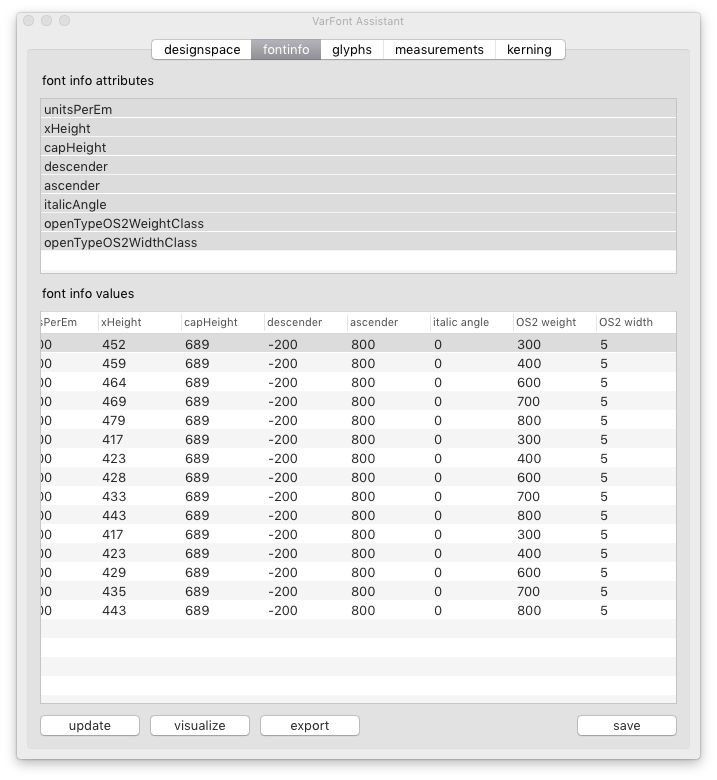
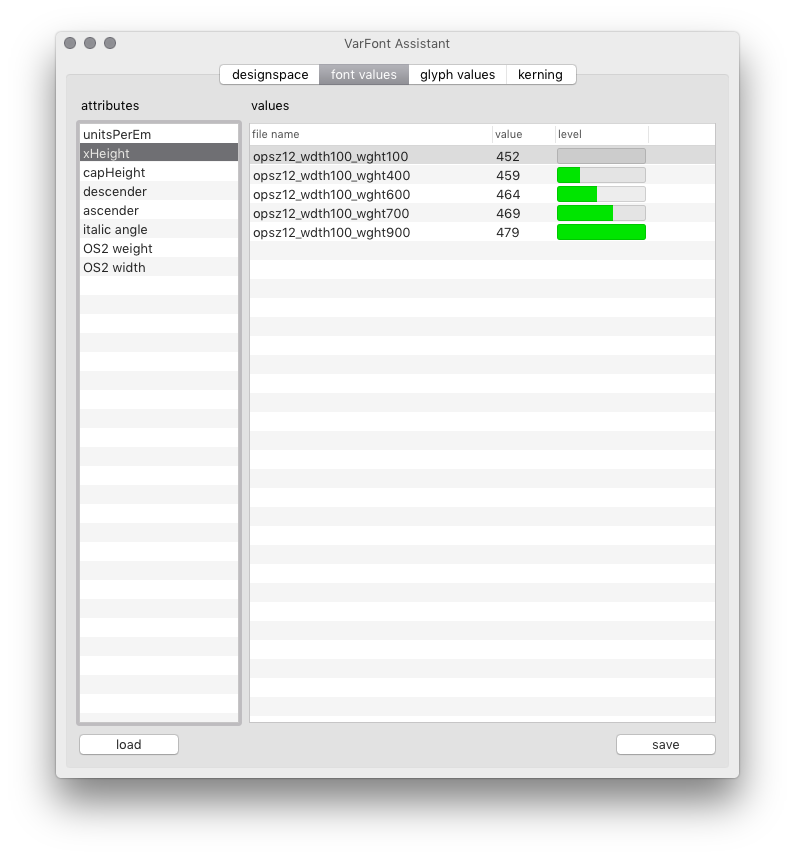
updating docs

diff --git a/docs/_layouts/default.html b/docs/_layouts/default.html
@@ -5,7 +5,7 @@
   <meta charset="utf-8">
   <meta name="viewport" content="width=device-width, initial-scale=1">
   <title>{{ page.title }}</title>
-  <link rel="icon" href="{{ site.url }}/favicon.ico"/>
+  {% comment %}<link rel="icon" href="{{ site.url }}/favicon.ico"/>{% endcomment %}
   {% include bootstrap.html %}
   <link rel="stylesheet" href="{{ site.url }}/css/style.css" type="text/css" />
   <script src="https://code.jquery.com/jquery-3.6.0.slim.min.js" integrity="sha256-u7e5khyithlIdTpu22PHhENmPcRdFiHRjhAuHcs05RI=" crossorigin="anonymous"></script>

diff --git a/source/VarFontAssistant.py b/source/VarFontAssistant.py
@@ -19,9 +19,9 @@ class VarFontAssistant:
     lineHeight        = 22
     verbose           = True
     buttonWidth       = 100
-    _colLeft          = 180
-    _colFontName      = 240
-    _colValue         = 80
+    _colLeft          = 160
+    _colFontName      = 160
+    _colValue         = 60
     _tabsTitles       = ['designspace', 'font values', 'glyph values', 'kerning'] # 'measurements'
     _designspaces     = {}
     _axes             = {}
@@ -219,7 +219,7 @@ class VarFontAssistant:
         y = p/2
         tab.fontInfoLabel = TextBox(
                 (x2, y, -p, self.lineHeight),
-                'font info values')
+                'values')
 
         columnDescriptions = [
             {
@@ -305,7 +305,7 @@ class VarFontAssistant:
         y = p/2
         tab.glyphAttrsLabel = TextBox(
                 (x2, y, -p, self.lineHeight),
-                'glyph attributes')
+                'attributes')
 
         y += self.lineHeight + p/2
         tab.glyphAttrs = List(
@@ -318,7 +318,7 @@ class VarFontAssistant:
         y += self.lineHeight*7 + p
         tab.glyphsLabel = TextBox(
                 (x2, y, -p, self.lineHeight),
-                'glyph values')
+                'values')
 
         columnDescriptions = [
             {
@@ -381,7 +381,7 @@ class VarFontAssistant:
 
         x = p = self.padding
         y = p/2
-        col = 280 # self._colLeft
+        col = self._colLeft * 1.5
         tab.pairsLabel = TextBox(
                 (x, y, -p, self.lineHeight),
                 'pairs')
@@ -405,7 +405,7 @@ class VarFontAssistant:
         x2 = x + col + p
         tab.kerningValuesLabel = TextBox(
                 (x2, y, -p, self.lineHeight),
-                'kerning values')
+                'values')
 
         y += self.lineHeight + p/2
         columnDescriptions = [
@@ -598,32 +598,16 @@ class VarFontAssistant:
 
         tab = self._tabs['designspace']
 
-        # -----------
-        # reset lists
-        # -----------
-
         sourcesPosSize = tab.sources.getPosSize()
         del tab.sources
-
-        # -----------
-        # empty lists
-        # -----------
 
         if not self.selectedDesignspace:
             tab.axes.set([])
             tab.sources = List(sourcesPosSize, [])
             return
 
-        # ------------------------
-        # get selected designspace
-        # ------------------------
-        
         designspace = self.selectedDesignspaceDocument 
 
-        # -----------
-        # update axes
-        # -----------
-        
         # make list items
         self._axes = {}
         axesItems = []
@@ -634,15 +618,9 @@ class VarFontAssistant:
         # create list UI with sources
         tab.axes.set(axesItems)
 
-        # --------------
-        # update sources
-        # --------------
-
-        # get column descriptions
+        # make list items
         sourcesDescriptions  = [{'title': 'file name', 'minWidth': self._colFontName*2}]
         sourcesDescriptions += [{'title': axis.name, 'width': self._colValue} for axis in designspace.axes]
-
-        # make list items
         self._sources = {}
         sourcesItems = []
         for source in designspace.sources:

diff --git a/docs/_reference/varfont-assistant.md b/docs/_reference/varfont-assistant.md
@@ -11,7 +11,7 @@ A tool to view and edit font values in multiple designspace sources at once.
 designspace
 -----------
 
-Use this tab to define which designspace and font sources to look into.
+Define which designspaces and font sources to look into.
 
 <div class='row'>
 
@@ -21,12 +21,12 @@ Use this tab to define which designspace and font sources to look into.
 
 <div class='col-sm' markdown='1'>
 designspaces
-: Drag one or more `.designspace` files from Finder into the list.
+: Drag one or more `.designspace` files into the list.
 
 axes
 : ^
   A list of axes in the selected designspace.  
-  Drag the axes to change the font sorting order.†
+  Reorder the list items to change the font sorting order.†
 
 sources
 : ^
@@ -38,10 +38,10 @@ sources
 </div>
 
 
-fontinfo
---------
+font values
+-----------
 
-Use this tab to visualize and edit font info values in selected sources.
+Visualize and edit font values in selected sources.
 
 <div class='row'>
 
@@ -50,20 +50,22 @@ Use this tab to visualize and edit font info values in selected sources.
 </div>
 
 <div class='col-sm' markdown='1'>
-font info attributes
-: A list of font info attributes to measure.
+attributes
+: A list of font attributes to measure.
 
-font info values
+values
 : Double-click table cells to edit individual values.
 
-update
-: Use the *update* button to scan the fonts, collect values and display them in the UI.
+load
+: Use the *load* button to scan the fonts, collect values and display them in the UI.
 
+<!--
 visualize
 : Use the *visualize* button to plot the numbers with graphics in PDF format.†
 
 export
 : Use the *export* button to save the table as a CSV file.†
+-->
 
 save
 : Use the *save* button to save the edited values back into the fonts.
@@ -72,10 +74,10 @@ save
 </div>
 
 
-glyphs
-------
+glyph values
+------------
 
-Use this tab to visualize and edit glyph values in selected sources.
+Visualize and edit glyph values in selected sources.
 
 <div class='row'>
 
@@ -84,23 +86,25 @@ Use this tab to visualize and edit glyph values in selected sources.
 </div>
 
 <div class='col-sm' markdown='1'>
-glyph attributes
-: Select one glyph attribute from which to collect values.
+glyphs
+: A list of all glyphs in all selected sources.
 
-glyph names
-: Type or paste a list of glyph names for value collection.
+attributes
+: A list of glyph attributes to measure.
 
-glyph values
+values
 : Double-click table cells to edit individual values.
 
-update
-: Click the *update* button to scan the fonts, collect values and display them in the UI.
+load
+: Click the *load* button to scan the fonts, collect values and display them in the UI.
 
+<!--
 visualize
 : Use the *visualize* button to plot the numbers with graphics in PDF format.†
 
 export
 : Use the *export* button to save the table as a CSV file.†
+-->
 
 save
 : Use the *save* button to save the edited values back into the fonts.†
@@ -109,10 +113,11 @@ save
 </div>
 
 
+{% comment %}
 measurements
 ------------
 
-Use this tab to measure and visualize specific distances in selected sources.
+Measure and visualize specific distances in selected sources.
 
 <div class='row'>
 
@@ -132,8 +137,8 @@ measurements
 values
 : A list of measured values for the selected sources.†
 
-update
-: Click the *update* button to scan the fonts, collect values and display them in the UI.
+load
+: Click the *load* button to scan the fonts, collect values and display them in the UI.
 
 visualize
 : Use the *visualize* button to plot the numbers with graphics in PDF format.†
@@ -143,32 +148,37 @@ export
 </div>
 
 </div>
+{% endcomment %}
 
 
 kerning
 -------
 
+Visualize and edit kerning values in selected sources.
+
 <div class='row'>
 
 <div class='col-sm' markdown='1'>
-![]({{ site.url }}/images/VarFontAssistant_5.png){: .img-fluid}
+![]({{ site.url }}/images/VarFontAssistant_4.png){: .img-fluid}
 </div>
 
 <div class='col-sm' markdown='1'>
 pairs
 : A list of all kerning pairs in all selected sources.
 
-kerning values
+values
 : Values of the selected kerning pair across all selected sources.
 
-update
-: Click the *update* button to scan the fonts, collect values and display them in the UI.
+load
+: Click the *load* button to scan the fonts, collect values and display them in the UI.
 
+<!--
 visualize
 : Use the *visualize* button to plot the numbers with graphics in PDF format.†
 
 export
 : Use the *export* button to save the kerning data as a CSV file.†
+-->
 
 save
 : Use the *save* button to save the edited values back into the fonts.
